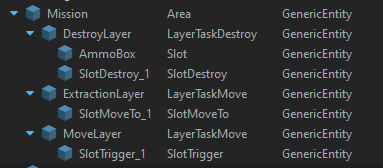
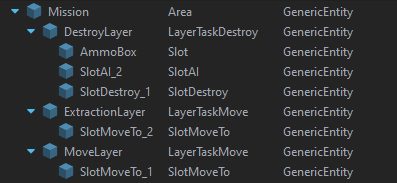
v1

diff --git a/readme.md b/readme.md
@@ -1,9 +1,9 @@
 # Scenario Framework Explained
-In this guide, I will try to explain how to build a scenario without scripting.
+In this guide, I will to explain how to build a basic scenario without scripting.
 
-**::Disclaimer::** This is all from my own experience in digging through the combat ops scenario and testing, none of this info is fact checked :)
+**::Disclaimer::** This is all from my own experience in digging through the combat ops scenario and testing, none of this info is offical or fact checked :)
 
-It is advised to have the workbench open and test some stuff while reading this theoretical part ~~to make it less boring~~.
+The first part is more theoretical and afterwards we will create a small scenario to use some of the components. I can advise you to have the workbench open and test some stuff while reading the theoretical part ~~to make it less boring~~.
 
 ## General Workbench layout
 This guide requires some knowledge of the UI components in the workbench.
@@ -21,7 +21,7 @@ The window on the left side of the screen. In this window a list of entities tha
 This screen will show the properties of the selected entity. Some entities contain different components, which will be listed in the upper half of the window. These can each be selected to show and edit their respective properties.
 
 ## Scenario Setup
-There's already a lot of guides and videos on how to set up a scenario so I won't add that here. Basically you want to end up with this general layout.
+There's already a lot of [guides](https://community.bistudio.com/wiki/Arma_Reforger:Scenario_Framework_Setup#World_Setup) and [videos](https://www.youtube.com/watch?v=WNL_oFhlmLU) on how to set up a scenario so I won't add that here. Basically you want to end up with something like this.
 
 ![Scenario_Manager_Setup](/Images/Scenario_Manager_Setup.PNG)
 
@@ -41,11 +41,11 @@ Let's look at the object properties of the area for a second. If you select the 
 That is the `Children` property. This property enables you to control what children (layers) of the area will be activated. There are several different options. Most relevant are `ALL` (enable all children) and `RANDOM ONE` (enable one child). If you want to make your scenario more random and replayable, this is the simplest way to do so. When you start adding layers, every layer can also have this setting to make even more randomness.
 
 ### Layer (Layer.et)
-This is one of the most powerful entities that you will use, because it will provide you with a way to lay out the scenario precisely how you want it. Later on in this guide you will see how this can be used to your advantage. When you create a layer you *have* to drag it into an area to create the child hierarchy. Any layer that does not have an area as a parent will not be activated. It is smart to rename your layer to something more logical than `Layer_X` to keep track of different layers in your project. This can be done by selecting it in the hierarchy, right clicking and selecting `rename`, by pressing F2 when selected, or by renaming the object in the top right of the Object Properties window.
+This is one of the most powerful entities that you will use, because it will provide you with a way to lay out the scenario precisely how you want it. Later on in this guide you will see how this can be used to your advantage. When you create a layer you *have* to drag it into an area to create the child hierarchy. Any layer that does not have an area as a parent will not be activated. It is smart to rename your layer to something more recognisable than `Layer_1` to keep track of different layers in your project. This can be done by selecting it in the hierarchy, right clicking and selecting `rename`, by pressing F2 when selected, or by renaming the object in the top right of the Object Properties window.
 
 #### Object properties
 When you open the object properties of the `SCR_ScenarioFrameworkLayerBase`, you will see some properties that are relevant to creating scenarios. The `Children` property can be used in the same way as on the area entities. The `Activation` property is also very important. 
-This is defaulted to `SAME_AS_PARENT`. This means it will be activated at the same time the parent is activated. The default behaviour of the parent, in this case an area, is `ON_INIT`. That means it will be activated as soon as the game starts. The most relevant options in the drop-down are `SAME_AS_PARENT` and `ON_TRIGGER_ACTIVATION`. The latter can be used to activate a layer later in the game, for instance when another task is completed, or a player enters a specific location on the map. This can be used to make the scenario react to player actions during play.
+This is defaulted to `SAME_AS_PARENT`. This means it will be activated at the same time the parent is activated. The default behaviour of this parent, an area, is `ON_INIT`. That means it will be activated as soon as the game starts. The most relevant options in the drop-down are `SAME_AS_PARENT` and `ON_TRIGGER_ACTIVATION`. The latter can be used to activate a layer later in the game, for instance when another task is completed, or a player enters a specific location on the map. This can be used to make the scenario react to player actions during play.
 
 ### Slot
 This is at the bottom of the Scenario Framework Hierarchy. When created they have to be dragged into the layer to be recognized by the framework. Slots are mainly used to spawn objects, either in a task setting (vehicle to destroy) or just to create any entity on the fly (vehicle, AI group (using the SlotAI.et prefab), buildings). Combined with the layer on trigger activation this can be used to spawn items or enemies when something specific happens.
@@ -53,7 +53,7 @@ This is at the bottom of the Scenario Framework Hierarchy. When created they hav
 #### Object properties
 When you open the object properties of the `SCR_ScenarioFrameworkSlotBase`, the most important property will be the `Asset` property. Here you can select the object that will be spawned on the slot. This can be any prefab in the game. You can also use an existing asset by checking the box. Then you have to manually create an object of that type and place it close to the location of the slot. You can use this functionality when you want to make alterations to the object. By default the standard prefab will be spawned.
 
-## Creating a scenario with tasks
+### Creating a scenario with tasks
 The Prefabs we've just discussed were only the base versions of the layer and slot. To create tasks you can use the different types of layers. These are the Layer task prefab that exist right now:
 - LayerTask
 - LayerTaskClearArea
@@ -78,29 +78,21 @@ Some of these layers come with their own corresponding slots that provide the ob
 Let's try to create a small simple scenario using the Scenario Framework components.
 The scenario will consist of spawning at a location, moving to a designated location, blowing up a vehicle, and extracting.
 
-Todo List:
-- Create spawnpoint
-- Create area
-- Create move task layer
-- Create destroy task layer
-- Create extract task layer
-
-
 ### Setup
 For testing purposes you can pick a piece of land that's flat and easy to navigate, to make testing easier.
 Put down a spawnpoint US and USSR, to make sure you can spawn close to the mission location.
 
 First we create an area, we can call it `Mission`.
-Then we can create the first task, `Move`.
+Then we can create the first task, Move.
 
 ### First task: Move
 Drag a `LayerTaskMove` prefab into the world close to the spawn point, name it `MoveLayer`. Make sure it is a child of `Mission`. The activation type should be set to `SAME_AS_PARENT`. That way it is enabled when the mission is started. In the properties windows it is also possible to change the title and description of the task.
 
-Drag a `SlotTrigger` prefab into the world and make sure it is a child of `MoveLayer` in the hierarchy window. This slot contains a trigger that will complete the layertask when a player enters the radius. In the properties of `SCR_ScenarioFrameworkSlotTrigger` you can edit the radius, and the percentage of players that are needed in the radius to trigger the task. For now we will only enable `Once` and leave the rest as default. We will however tick the box `Show Debug Shapes During Runtime`. This will enable the purple orb while playing the game, and will make it easier to test your scenario.
+Drag a `SlotMoveTo` prefab into the world and make sure it is a child of `MoveLayer` in the hierarchy window. This slot contains a trigger that will complete the layertask when a player enters the radius. In the properties of `SCR_ScenarioFrameworkSlotTrigger` you can edit the radius, and the percentage of players that are needed in the radius to trigger the task. For now we will only enable `Once` and leave the rest as default. We will however tick the box `Show Debug Shapes During Runtime`. This will enable the purple orb while playing the game, and will make it easier to test your scenario.
 
 Now for the important part. In the Object Properties window, there is a property `OnTaskFinished`. Add an action and select `Spawn Objects`. Open the action and add an object to spawn. In the text box, enter the name `DestroyLayer`. This will refer to the layer we will be creating in the next step. Setting this property will make sure the selected layer is spawned when this task is finished.
 
-![OnActivationSpawnObject](/Images/OnActivationSpawnObject)
+![OnActivationSpawnObject](/Images/OnActivationSpawnObject.PNG)
 
 ### Second task: Destroy
 Drag a `LayerTaskDestroy` prefab into the world and name it `DestroyLayer`. Make sure it is a child of `Mission`. In the object properties set the activation type to `ON_TRIGGER_ACTIVATION`. This will make sure the task will only be activated once another trigger has happened. We have already set up the move task to trigger the activation of this layer.
@@ -108,7 +100,9 @@ Drag a `LayerTaskDestroy` prefab into the world and name it `DestroyLayer`. Make
 Now we will do the same thing for the third task. As soon as the vehicle is destroyed, we want the extraction layer to be activated. 
 Therefore we add a trigger action to the `OnTaskFinished`. There we once again add a `Spawn Objects` action and enter the name `Extractionlayer`.
 
-Drag a `SlotDestroy` prefab into the world and once again make sure it is a child of `DestroyLayer`. In the properties we can select the object that we want to be spawned. For this example we will spawn a `M151A2.et`. You can find it under `Prefabs/Vehicles/Wheeled` or use the search box. When an item is selected, a preview of the object will be shown in the world screen.
+Drag a `SlotDestroy` prefab into the world and once again make sure it is a child of `DestroyLayer`. In the properties we can select the object that we want to be spawned. For this example we will spawn a `ApproachRadar_RPL5_01_on.et`. You can find it under `Prefabs/Structures/Military/Radar` or use the search box. When an item is selected, a preview of the object will be shown in the world screen.
+
+![SlotDestroy](/Images/SlotDestroy.PNG)
 
 To make sure the players have explosives to destroy the vehicle we can spawn an ammunition crate nearby.
 Drag a regular slot prefab into the world close to the SlotDestroy entity and make sure it is a child of `DestroyLayer`. As the object to spawn, select `AmmoBoxArsenal_Launcher_USSR.et`. Now when the layer is activated, this explosive box will be placed.
@@ -135,9 +129,22 @@ If it's working you can try to add enemies guarding the vehicle to the mission. 
   <summary>A more detailed guide to adding enemies is in <b>here</b>, but I know you can figure it out by now! Try it first.</summary>
    <details>
       <summary>Are you sure you want to see the <b>guide</b>?</summary>
-      This is not much different then the ammobox we spawned near the car. First drag a SlotAI.et into the world near the destroy slot. Set an enemy group as the object to spawn, for instance Group_USSR_SentryTeam.et. If you drag the slot into the DestroyLayer in the hierarchy window, it will be activated along with the vehicle and the ammobox. That's it! Isn't it easy? :)
+      This is not much different than the ammobox we spawned near the car. First drag a SlotAI.et into the world near the destroy slot. Set an enemy group as the object to spawn, for instance Group_USSR_SentryTeam.et. If you drag the slot into the DestroyLayer in the hierarchy window, it will be activated along with the vehicle and the ammobox. That's it! Isn't it easy? :)
+      <br/>
+      <br/>
     </details>
 </details>
 
+Now try adding some other creative ideas to your scenario. For instance:
+- Spawn enemies reacting to the object being destroyed
+- Using the Children `RANDOM ONE` property to create multiple different possible extraction points
+- try to figure out some other tasks not in this guide
+
+If you have any further questions about making missions you can visit the Arma discord and specifically [Enfusion Mission Makers](https://discord.com/channels/105462288051380224/976159829628444682)
 
 Hopefully this has been a helpful guide and you'll be able to create some cool scenarios!
+
+<br/>
+<br/>
+
+Please send me a message on discord if you have any questions, comments, or suggestions about this guide.
